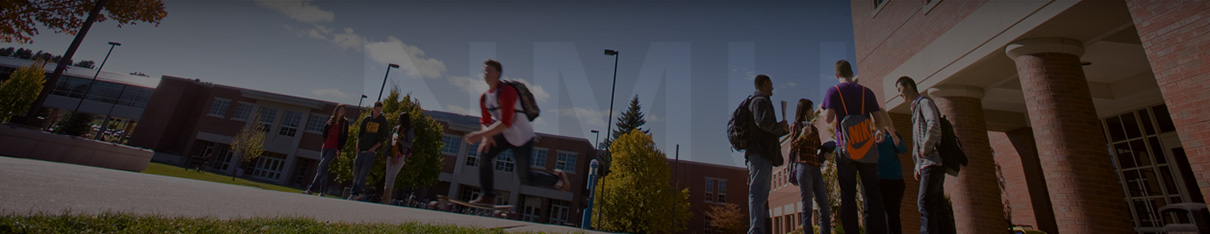
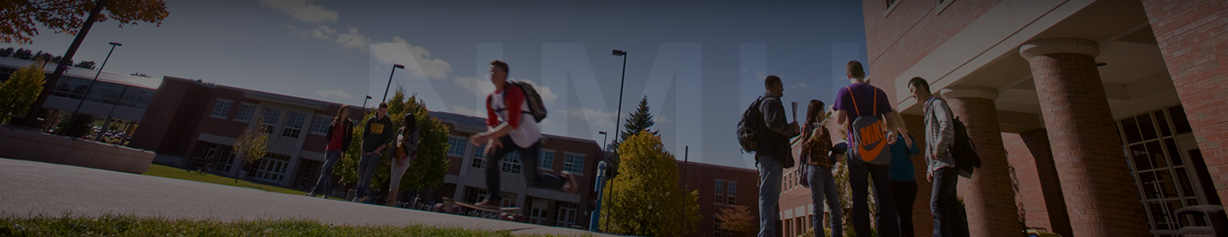
made column sizes consistent down the page

diff --git a/css/styles.css b/css/styles.css
@@ -88,10 +88,10 @@
  * by setting a max-width.
  */
 /* line 17, ../sass/layouts/_responsive.scss */
-#main {
+#main, .news-events {
   margin-left: auto;
   margin-right: auto;
-  max-width: 1200px;
+  max-width: 1170px;
 }
 
 /* Component (SMACSS module) rules */
@@ -110,6 +110,7 @@
 /* line 15, ../sass/components/_misc.scss */
 .with-wireframes #header,
 .with-wireframes #main,
+.with-wireframes .news-events,
 .with-wireframes #content,
 .with-wireframes .region-top-navigation,
 .with-wireframes .region-branding,
@@ -1480,14 +1481,7 @@ body.logged-in .region-main-navigation nav.affix {
   }
 }
 
-/* line 1, ../sass/components/_nmu-news-events.scss */
-.news-events {
-  margin-left: auto;
-  margin-right: auto;
-  max-width: 1200px;
-}
-
-/* line 7, ../sass/components/_nmu-news-events.scss */
+/* line 5, ../sass/components/_nmu-news-events.scss */
 .events-header {
   border-top: 5px solid #006848;
   background-color: #006848;
@@ -1496,14 +1490,14 @@ body.logged-in .region-main-navigation nav.affix {
   background-position: center;
 }
 @media all and (min-width: 992px) {
-  /* line 7, ../sass/components/_nmu-news-events.scss */
+  /* line 5, ../sass/components/_nmu-news-events.scss */
   .events-header {
     height: 234px;
     background-image: url(/sites/all/themes/zen_nmu/images/news-and-events.jpg);
   }
 }
 
-/* line 19, ../sass/components/_nmu-news-events.scss */
+/* line 17, ../sass/components/_nmu-news-events.scss */
 .events-label {
   margin-left: auto;
   margin-right: auto;
@@ -1516,7 +1510,7 @@ body.logged-in .region-main-navigation nav.affix {
   padding-top: 40px;
 }
 @media all and (min-width: 992px) {
-  /* line 19, ../sass/components/_nmu-news-events.scss */
+  /* line 17, ../sass/components/_nmu-news-events.scss */
   .events-label {
     width: 500px;
     font-size: 3em;
@@ -1525,34 +1519,34 @@ body.logged-in .region-main-navigation nav.affix {
   }
 }
 
-/* line 36, ../sass/components/_nmu-news-events.scss */
+/* line 34, ../sass/components/_nmu-news-events.scss */
 .events-sub-label {
   font-family: "AvenirLTStd-Medium", "Helvetica Neue", Helvetica, Tahoma, Verdana, Arial, sans-serif;
   color: #ffdd00;
 }
 
-/* line 41, ../sass/components/_nmu-news-events.scss */
+/* line 39, ../sass/components/_nmu-news-events.scss */
 .events-section {
   padding-top: 5px;
 }
 
-/* line 44, ../sass/components/_nmu-news-events.scss */
+/* line 42, ../sass/components/_nmu-news-events.scss */
 div.day-wrapper {
   margin: 0 5px;
 }
 @media all and (min-width: 992px) {
-  /* line 44, ../sass/components/_nmu-news-events.scss */
+  /* line 42, ../sass/components/_nmu-news-events.scss */
   div.day-wrapper {
     margin: 0 40px;
   }
 }
 
-/* line 50, ../sass/components/_nmu-news-events.scss */
+/* line 48, ../sass/components/_nmu-news-events.scss */
 .EventHeader {
   border-top: 5px solid #006848;
   padding: 5px 20px;
 }
-/* line 53, ../sass/components/_nmu-news-events.scss */
+/* line 51, ../sass/components/_nmu-news-events.scss */
 .EventHeader .EventHeaderType {
   float: left;
   width: 65px;
@@ -1560,14 +1554,14 @@ div.day-wrapper {
   font-size: larger;
   padding: 5px 0px 0px 5px;
 }
-/* line 60, ../sass/components/_nmu-news-events.scss */
+/* line 58, ../sass/components/_nmu-news-events.scss */
 .EventHeader .EventHeaderDate {
   float: right;
   padding: 8px 5px 1px 0px;
   font-size: smaller;
 }
 
-/* line 67, ../sass/components/_nmu-news-events.scss */
+/* line 65, ../sass/components/_nmu-news-events.scss */
 .EventLeft {
   border-left: 1px solid #e9e9e9;
   border-right: 1px solid #e9e9e9;
@@ -1577,25 +1571,25 @@ div.day-wrapper {
   overflow: hidden;
 }
 @media all and (min-width: 992px) and (max-width: 1199px) {
-  /* line 67, ../sass/components/_nmu-news-events.scss */
+  /* line 65, ../sass/components/_nmu-news-events.scss */
   .EventLeft {
     height: 370px;
   }
 }
 @media all and (min-width: 992px) {
-  /* line 67, ../sass/components/_nmu-news-events.scss */
+  /* line 65, ../sass/components/_nmu-news-events.scss */
   .EventLeft {
     margin-bottom: 0;
   }
 }
-/* line 80, ../sass/components/_nmu-news-events.scss */
+/* line 78, ../sass/components/_nmu-news-events.scss */
 .EventLeft .Title,
 .EventLeft .Text,
 .EventLeft .Footer {
   margin: 0 20px;
   padding: 5px;
 }
-/* line 86, ../sass/components/_nmu-news-events.scss */
+/* line 84, ../sass/components/_nmu-news-events.scss */
 .EventLeft .Title {
   border-top: 1px solid #e9e9e9;
   font-weight: bold;
@@ -1603,19 +1597,19 @@ div.day-wrapper {
   color: #006848;
   font-size: larger;
 }
-/* line 93, ../sass/components/_nmu-news-events.scss */
+/* line 91, ../sass/components/_nmu-news-events.scss */
 .EventLeft .Text {
   padding-top: 0px;
   max-height: 140px;
   overflow: hidden;
 }
 @media all and (min-width: 992px) and (max-width: 1199px) {
-  /* line 93, ../sass/components/_nmu-news-events.scss */
+  /* line 91, ../sass/components/_nmu-news-events.scss */
   .EventLeft .Text {
     max-height: 180px;
   }
 }
-/* line 104, ../sass/components/_nmu-news-events.scss */
+/* line 102, ../sass/components/_nmu-news-events.scss */
 .EventLeft a,
 .EventLeft a:visited,
 .EventLeft a:hover,
@@ -4432,6 +4426,7 @@ body,
   body,
   #page,
   #main,
+  .news-events,
   #content {
     color: #000;
     background-color: transparent !important;

diff --git a/sass/layouts/_responsive.scss b/sass/layouts/_responsive.scss
@@ -17,7 +17,8 @@
 	#main {
 		margin-left: auto;
 		margin-right: auto;
-		max-width: 1200px;
+		max-width: 1170px;  //everything contained in the template will be in a bootstrap row and have a -15/-15 margin so we cap the max width to accommodate this
+		//this class is extended in the news-events css file, so any changes here will be duplicated there
 	}
 
 //all zen grids stuff was pulled out in favor of bootstrap's grid system

diff --git a/sass/components/_nmu-news-events.scss b/sass/components/_nmu-news-events.scss
@@ -1,7 +1,5 @@
 .news-events {
-	margin-left: auto;
-	margin-right: auto;
-	max-width: 1200px;
+	@extend #main;
 }
 
 .events-header {

diff --git a/theme-includes/news-events.php b/theme-includes/news-events.php
@@ -2,15 +2,17 @@
 //nmu-zen
 ?>
 
-<div class="news-events">
-	<div class="events-header">
-		<div class="events-label allcaps">News &<br /><span class="events-sub-label">Upcoming Events</span></div>
-	</div>
-	<div class="row events-section">
-		<?php
-			if(!$strHP) //make sure something was set in the block
-				$strHP = "NMU Homepage";   //Pick this from the cms_events_categories table
-			require_once('/htdocs/cmsphp/Admin/MiscInterfaces/HPEvents.php');
-		?>
+<div class="news-events-wrapper">
+	<div class="news-events">
+		<div class="events-header">
+			<div class="events-label allcaps">News &<br /><span class="events-sub-label">Upcoming Events</span></div>
+		</div>
+		<div class="row events-section">
+			<?php
+				if(!$strHP) //make sure something was set in the block
+					$strHP = "NMU Homepage";   //Pick this from the cms_events_categories table
+				require_once('/htdocs/cmsphp/Admin/MiscInterfaces/HPEvents.php');
+			?>
+		</div>
 	</div>
 </div>
